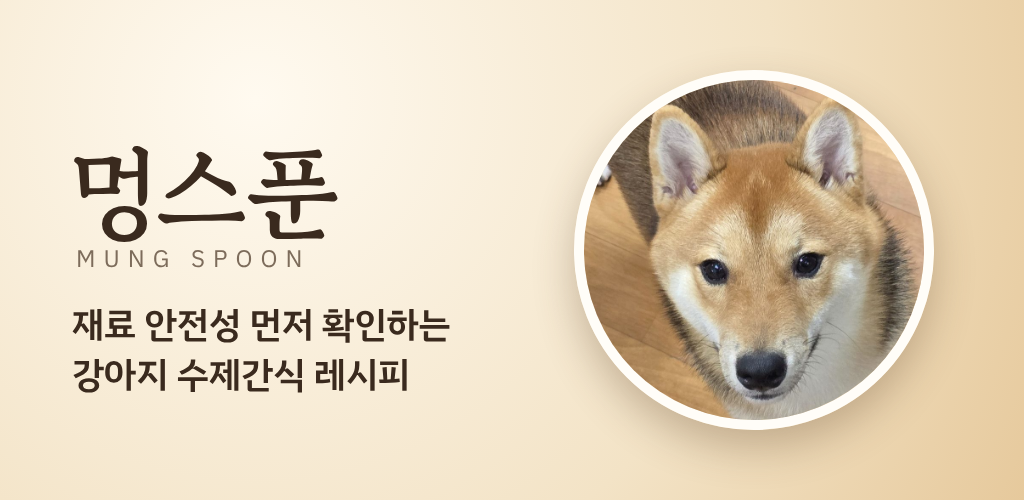
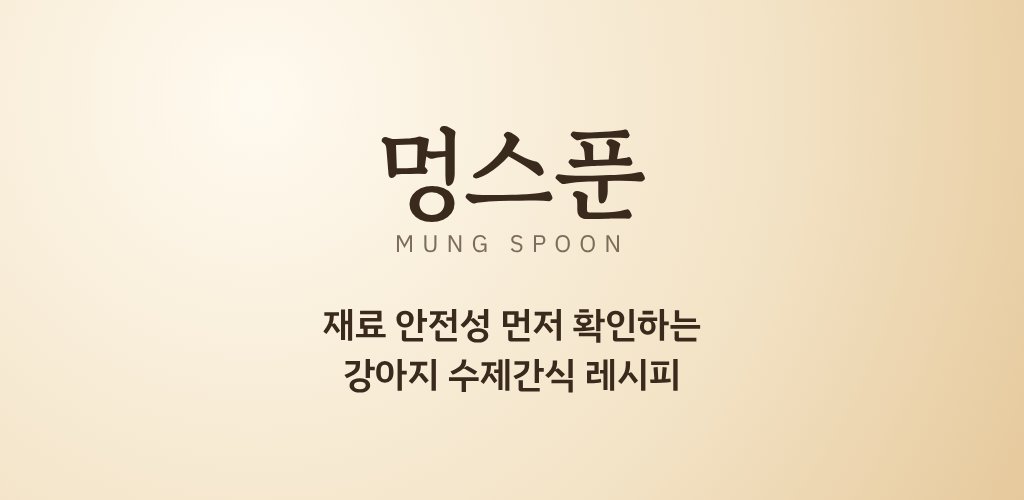
홈 대표 배너에서 반려견 사진 제거, 브랜드 배너로 교체
- 하쿠 사진(public/haku-hero.jpg) 삭제. 홈·카테고리에 반려견 사진 없음
- 대표 배너: 짙은 브라운 브랜드 배너 (간식 제품 사진 HERO_PHOTO 등록 시 사진 표시)
- 강아지 프로필 등록 기능은 그대로
- photo-prompts.md에 대표 배너용 간식 모둠 사진 문구 추가
- 스토어 배너·스크린샷 다시 생성

검증: 빌드 성공, API 테스트 43/43, 모바일 화면 테스트 49/49

Claude-Session: https://claude.ai/code/session_01QsM2oUPA3GnXVXwNwZboda

Changed region(s): [[0.0625, 0.12, 0.9375, 0.9], [0.0625, 0.3, 0.3438, 0.54]]

diff --git a/src/app/page.tsx b/src/app/page.tsx
@@ -5,7 +5,7 @@
 import Link from "next/link";
 import { useSyncExternalStore } from "react";
 import RecipeCard from "@/components/RecipeCard";
-import { AdSlot, TopBar, TreatArt } from "@/components/ui";
+import { AdSlot, HERO_PHOTO, TopBar, TreatArt } from "@/components/ui";
 import { PRESETS, presetHref } from "@/lib/presets";
 import { useLogs, useProfile, useRecipes, useViewed } from "@/lib/store";
 import { TREAT_TYPES } from "@/lib/types";
@@ -34,23 +34,35 @@ export default function HomePage() {
     <main>
       <TopBar right={<Link href="/blog" className="min-h-11 px-2 py-2 text-[15px] font-medium text-brown underline-offset-4 active:underline">블로그</Link>} />
 
-      {/* ── 대표 배너: 위에는 하쿠 실제 사진, 아래에는 소개 글 (글씨가 얼굴을 가리지 않게 분리) ── */}
-      <section className="mx-5 mt-1 overflow-hidden rounded-2xl bg-paper shadow-card">
-        {/* eslint-disable-next-line @next/next/no-img-element */}
-        <img
-          src="/haku-hero.jpg"
-          alt="멍스푼의 주인공 시바견 하쿠"
-          width={960}
-          height={800}
-          fetchPriority="high"
-          className="aspect-[6/5] w-full object-cover"
-        />
-        <div className="px-5 pt-4 pb-5">
-          <span className="text-[12px] font-medium tracking-[0.22em] text-brown/70">HOMEMADE PET BAKERY</span>
-          <p className="mt-1.5 font-display text-[27px] font-bold leading-[1.3]">
+      {/* ── 대표 배너: 브랜드 소개 (반려견 사진은 쓰지 않습니다) ──
+          HERO_PHOTO(간식 제품 사진)가 등록되어 있으면 사진을 위에 보여 주고,
+          없으면 글자만 있는 짙은 브라운 배너로 보여 줍니다. */}
+      <section className="mx-5 mt-1 overflow-hidden rounded-2xl bg-espresso text-paper shadow-card">
+        {HERO_PHOTO && (
+          // eslint-disable-next-line @next/next/no-img-element
+          <img
+            src={HERO_PHOTO}
+            alt="접시에 담긴 여러 가지 강아지 수제간식"
+            width={960}
+            height={720}
+            fetchPriority="high"
+            className="aspect-[4/3] w-full object-cover"
+          />
+        )}
+        <div className="px-6 pt-7 pb-6">
+          <span className="text-[12px] font-medium tracking-[0.24em] text-sand">HOMEMADE PET BAKERY</span>
+          <p className="mt-2.5 font-display text-[28px] font-bold leading-[1.3]">
             우리 강아지를 위한<br />건강한 한입
           </p>
-          <p className="mt-1.5 text-[14px] text-muted">무첨가 · 안전성을 통과한 재료로만 만드는 레시피</p>
+          <p className="mt-2.5 text-[14px] leading-relaxed text-beige">
+            재료의 안전성을 먼저 확인하고,<br />통과한 재료로만 레시피를 만듭니다.
+          </p>
+          {/* 서비스의 핵심 세 가지 (가는 선으로 구분) */}
+          <ul className="mt-5 grid grid-cols-3 border-t border-white/15 pt-4 text-center text-[13px] text-beige">
+            <li>무첨가 배합</li>
+            <li className="border-x border-white/15">재료 안전성 검사</li>
+            <li>수제간식 8종</li>
+          </ul>
         </div>
       </section>
 

diff --git a/src/components/art.tsx b/src/components/art.tsx
@@ -25,6 +25,13 @@ export const TREAT_PHOTOS: Partial<Record<TreatType, string>> = {
   // soft: "/treats/soft.jpg",
 };
 
+/**
+ * 홈 화면 대표 배너 사진 (여러 간식이 함께 담긴 펫 베이커리 제품 사진)
+ * 사진이 준비되면 public/treats/hero.jpg 로 넣고 아래 null 을 "/treats/hero.jpg" 로 바꾸세요.
+ * null 이면 사진 없이 글자만 있는 브랜드 배너가 보입니다.
+ */
+export const HERO_PHOTO: string | null = null;
+
 /** 이 종류의 실제 사진이 등록되어 있는지 */
 export const hasTreatPhoto = (type: TreatType) => !!TREAT_PHOTOS[type];
 

diff --git a/src/components/ui.tsx b/src/components/ui.tsx
@@ -78,7 +78,7 @@ export function BigButton({
  * 간식 이미지: 실제 사진 또는 글자 타일 (art.tsx에 있어요)
  * 다른 화면들은 지금처럼 ui.tsx에서 TreatArt를 불러오면 됩니다.
  */
-export { TreatArt, hasTreatPhoto } from "./art";
+export { TreatArt, hasTreatPhoto, HERO_PHOTO } from "./art";
 
 /**
  * 광고 자리 — 지금은 아무것도 보여 주지 않습니다.

diff --git a/store-assets/photo-prompts.md b/store-assets/photo-prompts.md
@@ -1,6 +1,7 @@
 # 간식 사진 8장 만들기 (AI 이미지 생성용 문구)
 
 앱의 간식 이미지는 **실제 사진**이 들어가도록 만들어져 있어요.
+반려견 사진은 쓰지 않고, 간식 제품 사진만 사용해요.
 아래 문구를 이미지 생성 도구(Higgsfield, ChatGPT 이미지 등)에 붙여넣어 사진을 만든 뒤 Claude에게 보내 주세요.
 8장 모두 같은 "공통 문구"를 써야 조명·배경이 통일돼요.
 
@@ -24,6 +25,14 @@ no nuts, no sugar sprinkles, no icing sugar, landscape 6:5 composition, subject 
 | `donut.jpg` | `oven-baked dog donuts made from sweet potato and rice flour, matte golden surface, thin plain yogurt glaze on top with finely grated carrot, not fried, not shiny,` |
 | `bite.jpg` | `small bite-size dog treats, round balls made from chicken breast, carrot and rice flour, lightly baked, visible carrot flecks, a small pile on the plate,` |
 | `soft.jpg` | `soft jelly-like dog treats cut into small cubes, made from tofu and apple, pale cream color, slightly translucent matte surface, a few thin fresh apple slices beside them,` |
+
+## 홈 화면 대표 배너 사진 (1장)
+파일 이름 `hero.jpg`, 가로로 긴 4:3 사진. 아래 문구 + 공통 문구를 함께 넣어 주세요.
+```
+an assortment of homemade dog treats arranged on a matte off-white ceramic platter: pumpkin cookies,
+mini sweet potato muffins with blueberries, a small yogurt-cream cake slice, baked donuts and bite-size chicken treats,
+styled like a premium pet bakery display, slightly angled top-down view,
+```
 
 ## 주의
 - 사진에 **초콜릿·포도·건포도·견과류·설탕 장식**이 보이면 다시 만들어 주세요. (강아지에게 위험한 재료예요)
